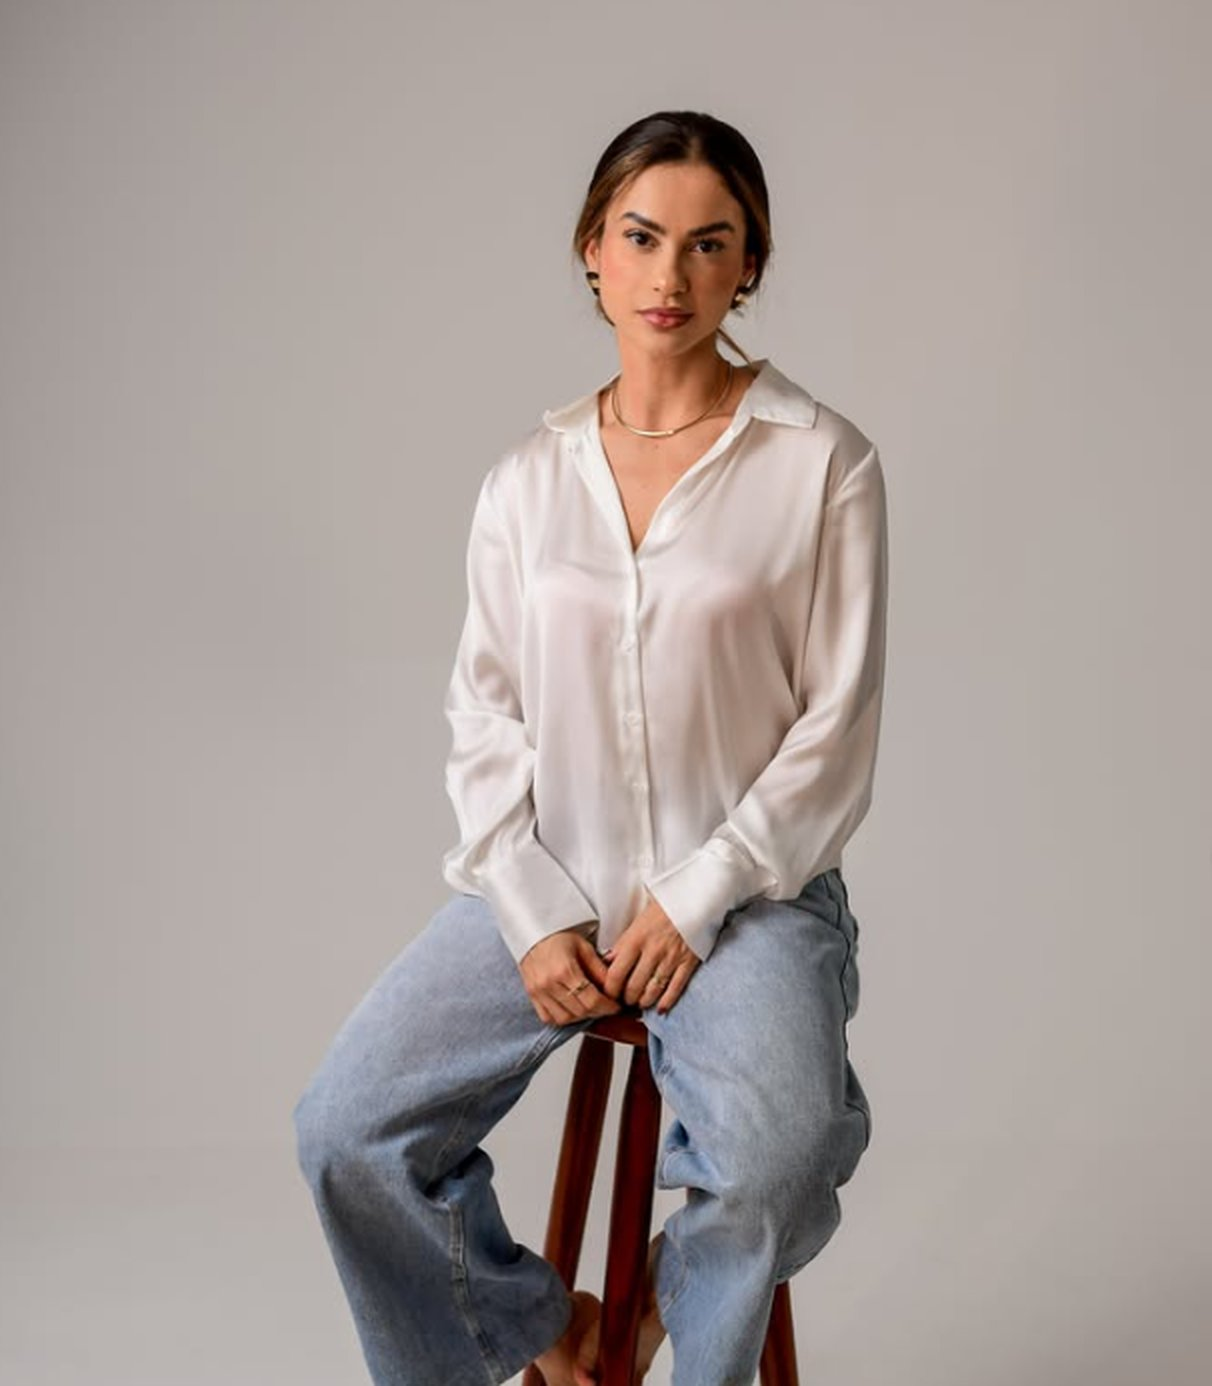
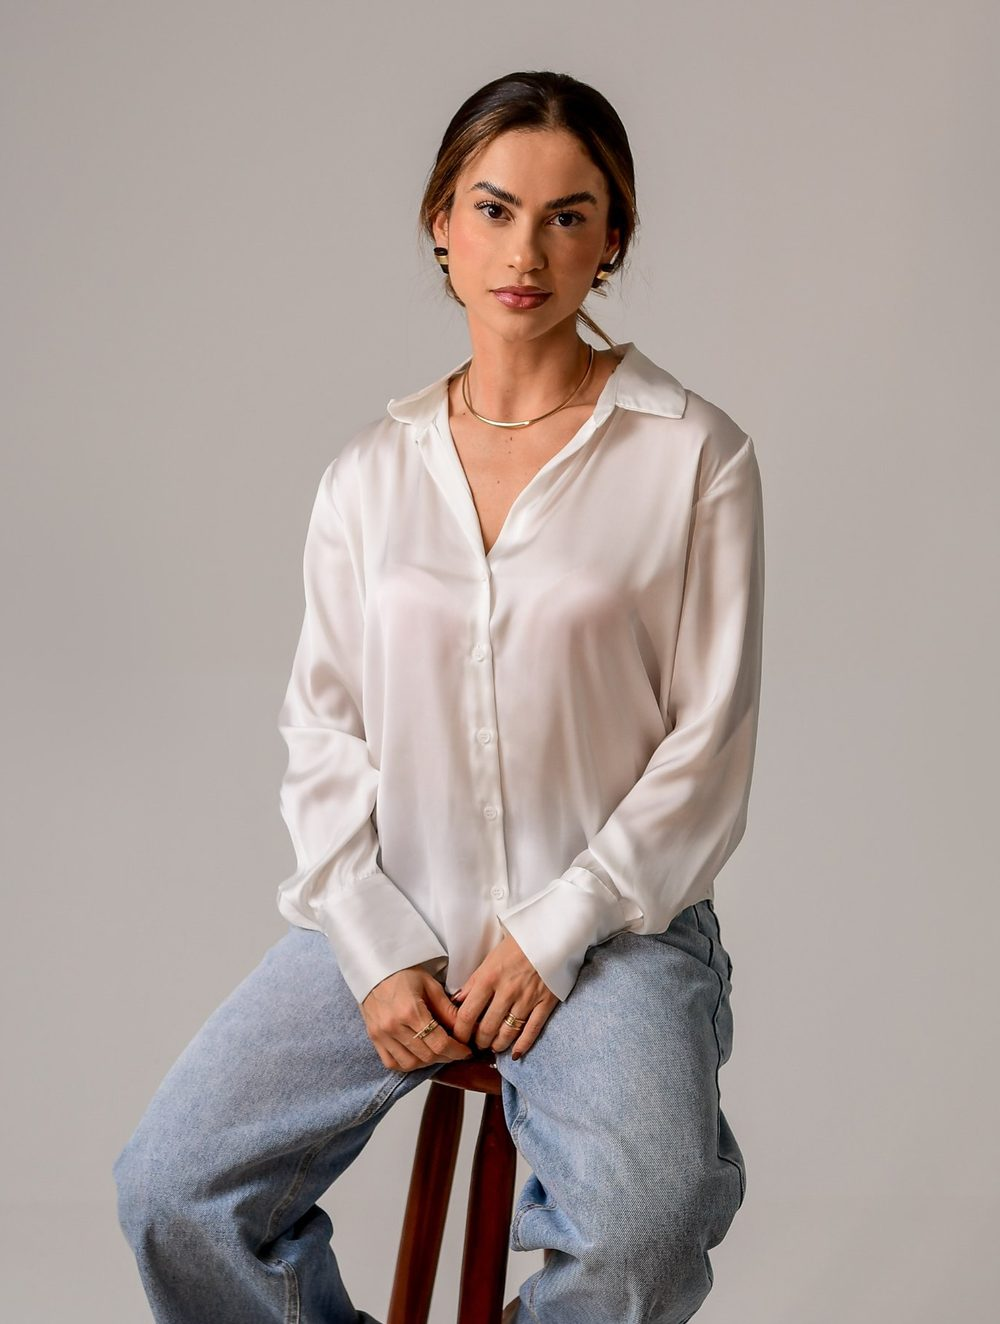
Fotos em alta resolução
Claude-Session: https://claude.ai/code/session_01UiifhrhtXrn2uzdtznd6z5

Changed region(s): [[0.093, 0.031, 0.775, 1.0], [0.868, 0.9909, 0.961, 1.0]]

diff --git a/index.html b/index.html
@@ -59,7 +59,7 @@
   }
   .hero-photo{
     position:absolute;inset:0;
-    background:url(img/beatriz-hero.jpg) center 6%/cover no-repeat;
+    background:url(img/beatriz-hero.jpg) center 0%/cover no-repeat;
   }
   .hero::before{ /* aquece o fundo cinza da foto */
     content:"";position:absolute;inset:0;z-index:1;
